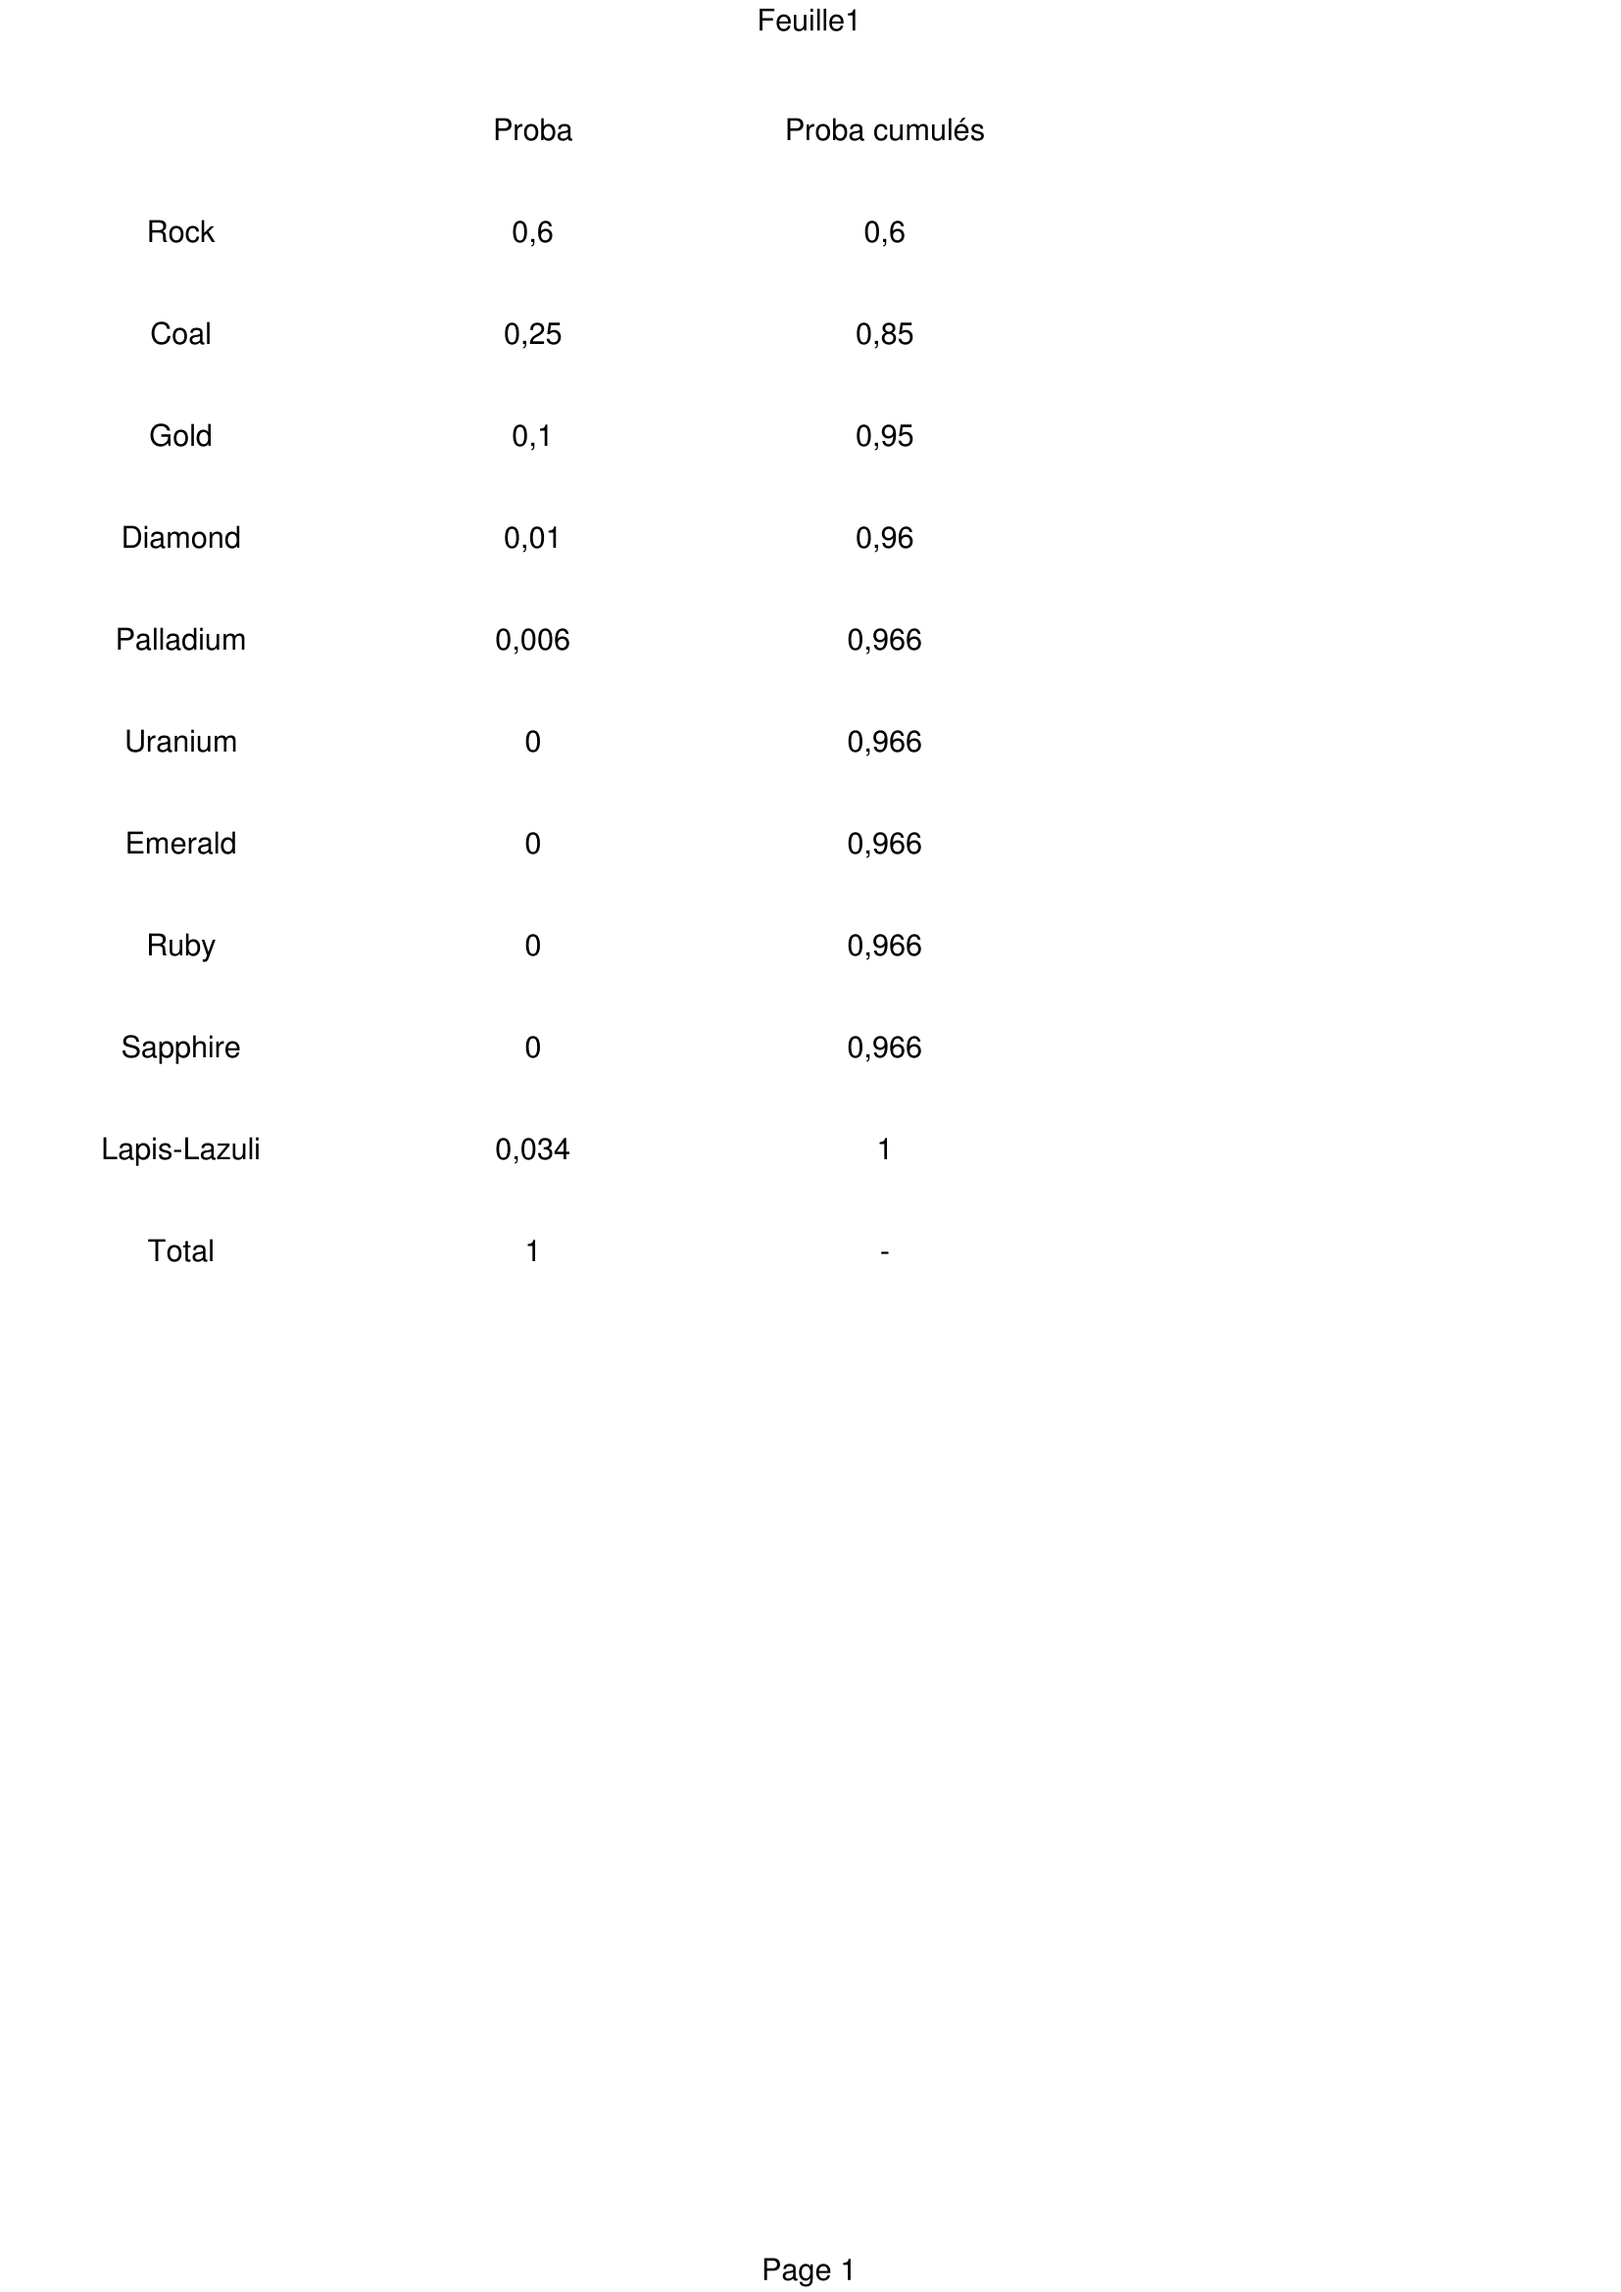
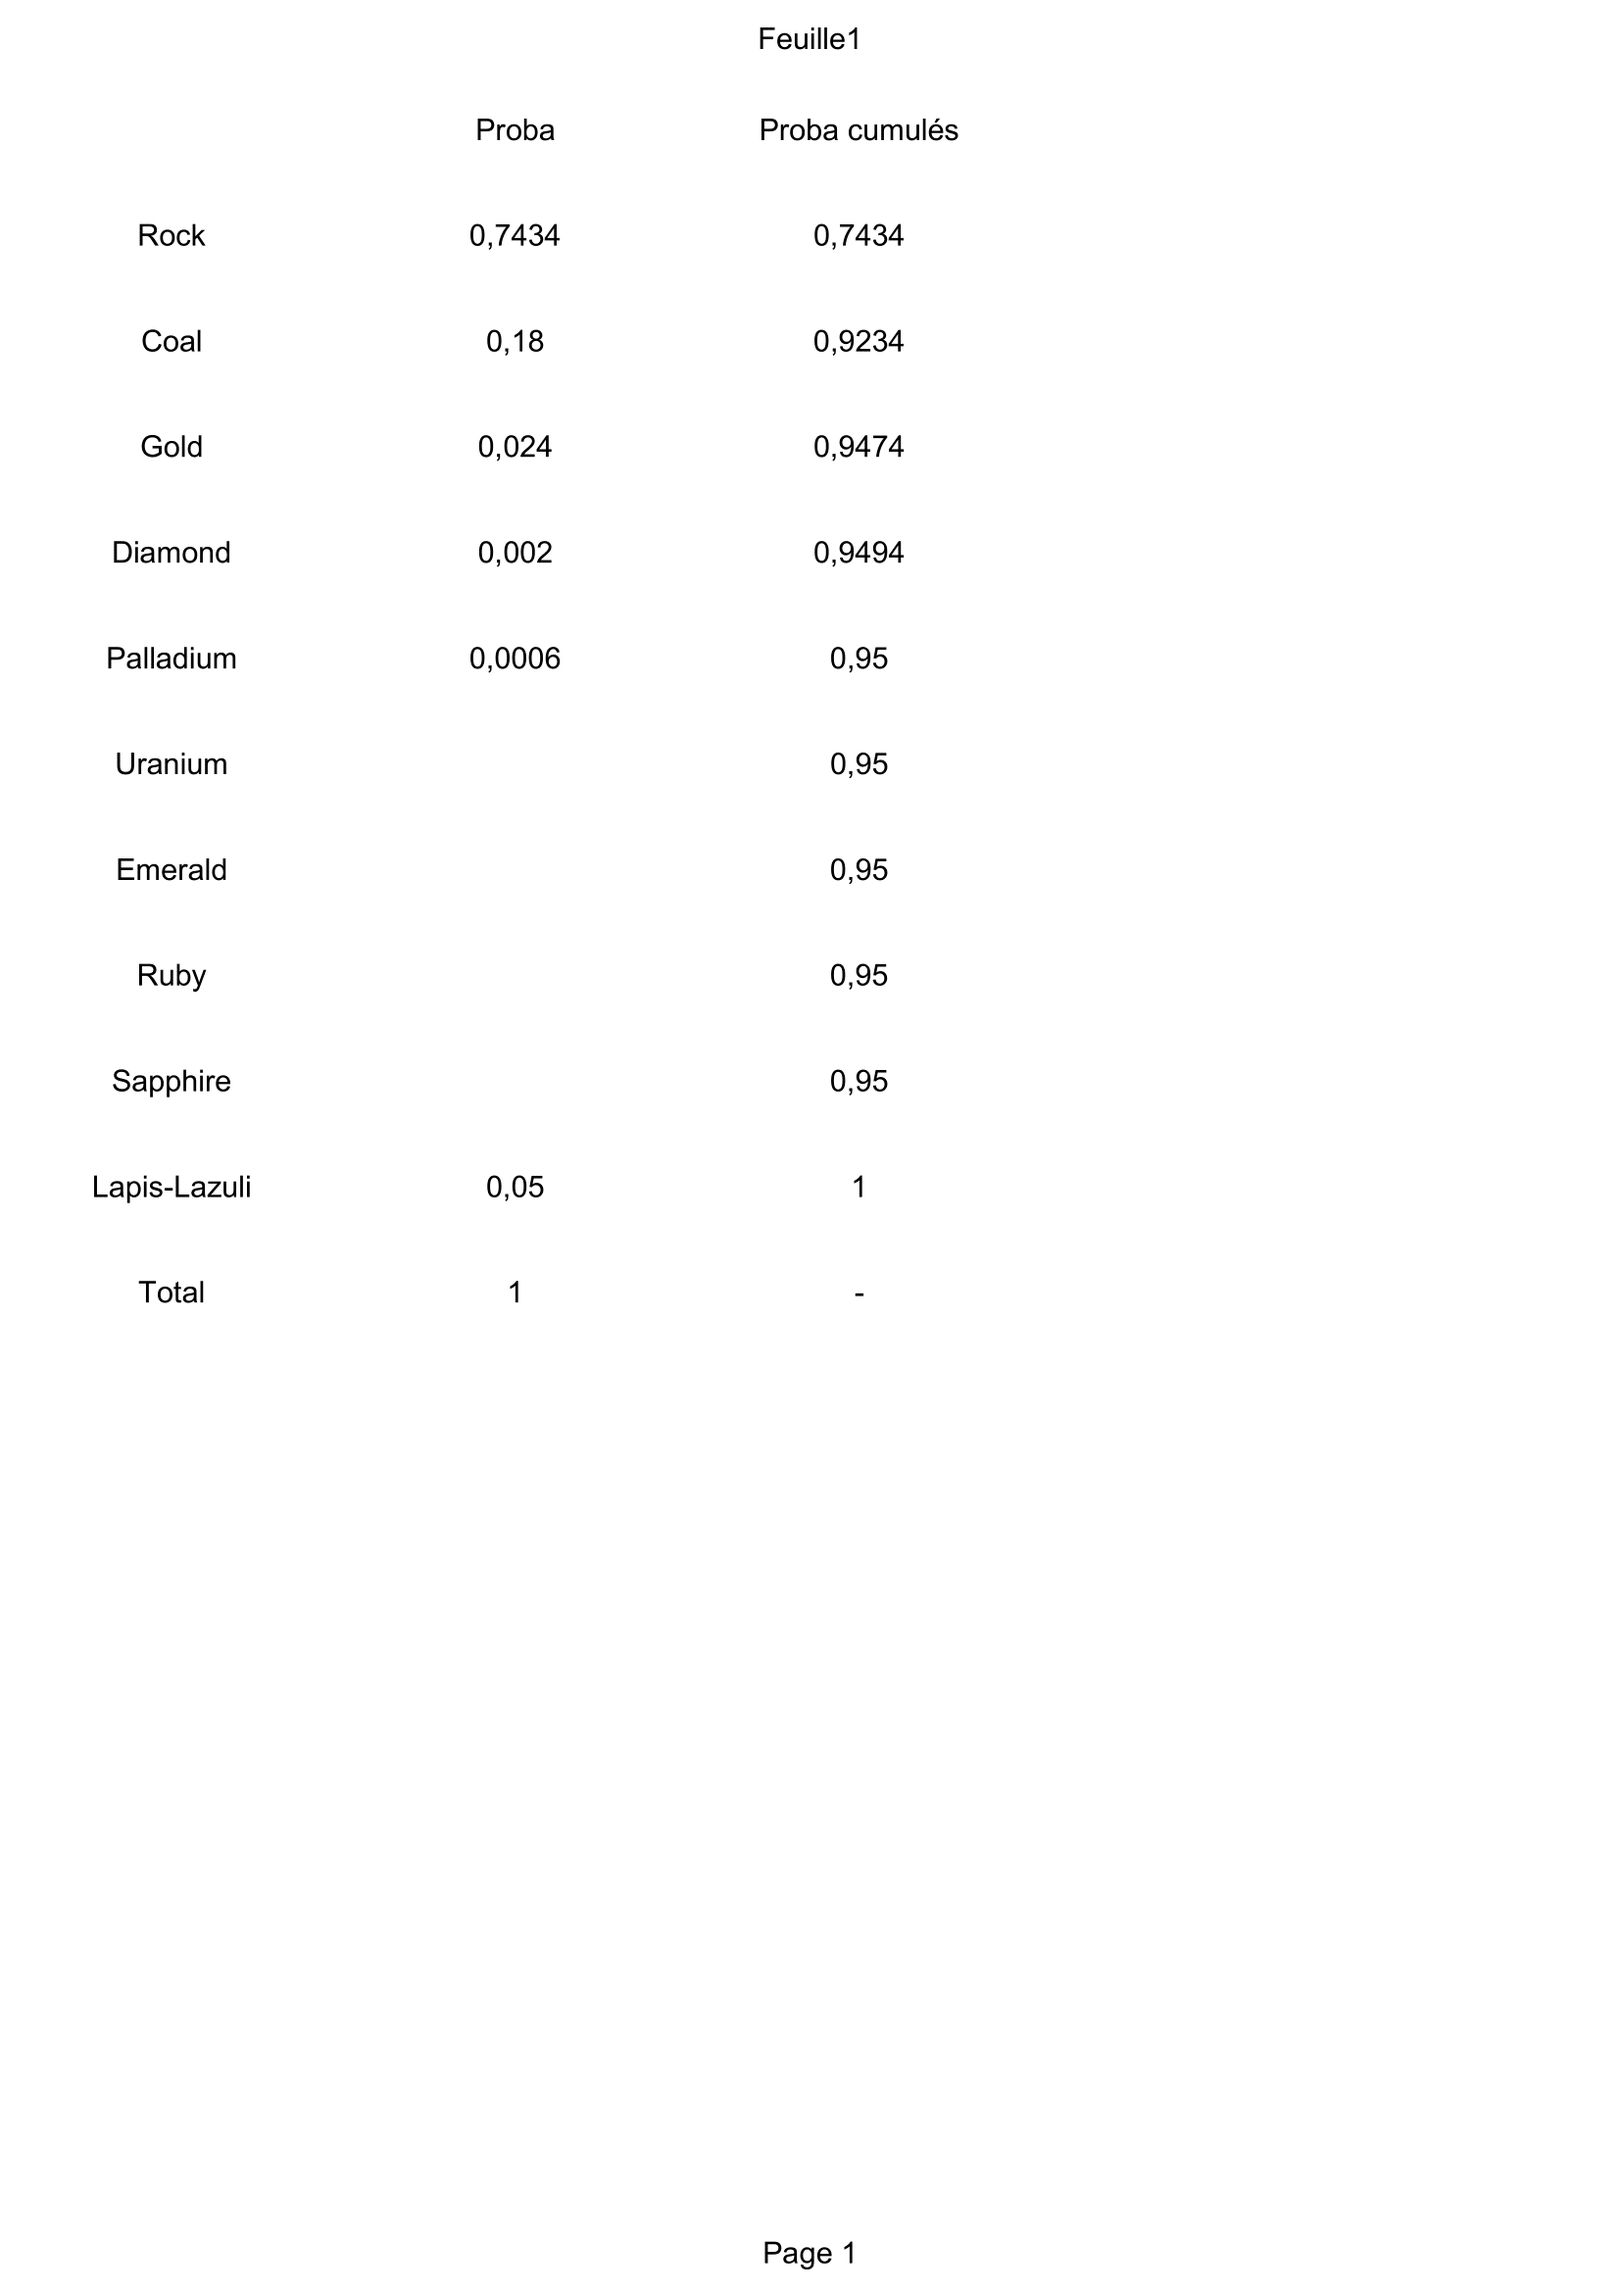
Probabilités minerais selon zone.

diff --git a/other/README.md b/other/README.md
@@ -3,7 +3,9 @@ Projet de fin d'année en ISN
 
 Clicker avec plusieurs paysages/niveaux
 Chaque niveau a une spécificité sur les ressources.
-1er zone: montagnes (majorité pierre)
+1ere zone: montagnes (majorité pierre)
 2eme zone: mine (bcp charbon + or)
 3eme zone: montagnes (lac) (bcp saphir+rubis+emeraude)
+4eme zone: lac (moins charbon et pierre , plus autre minerais valeur)
+5eme zone: centrale nucléaire (débloque uranium)
 Zone d'upgrade (atelier, etc.)
